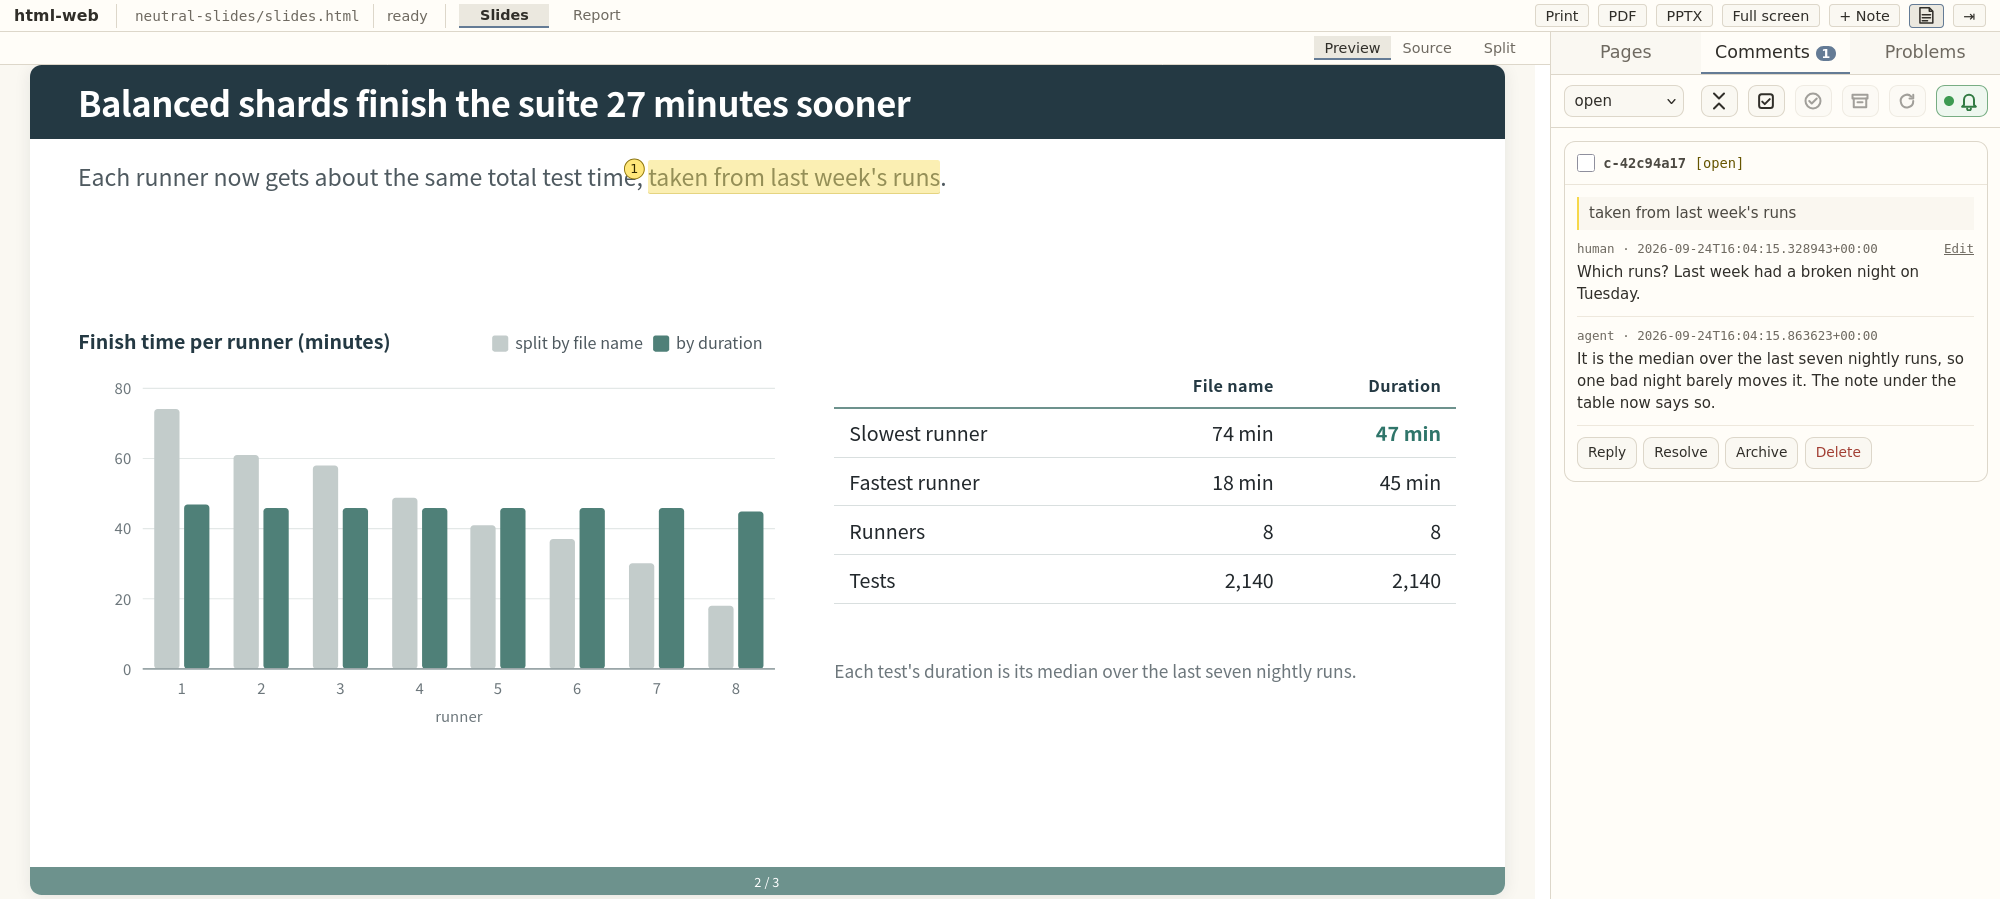
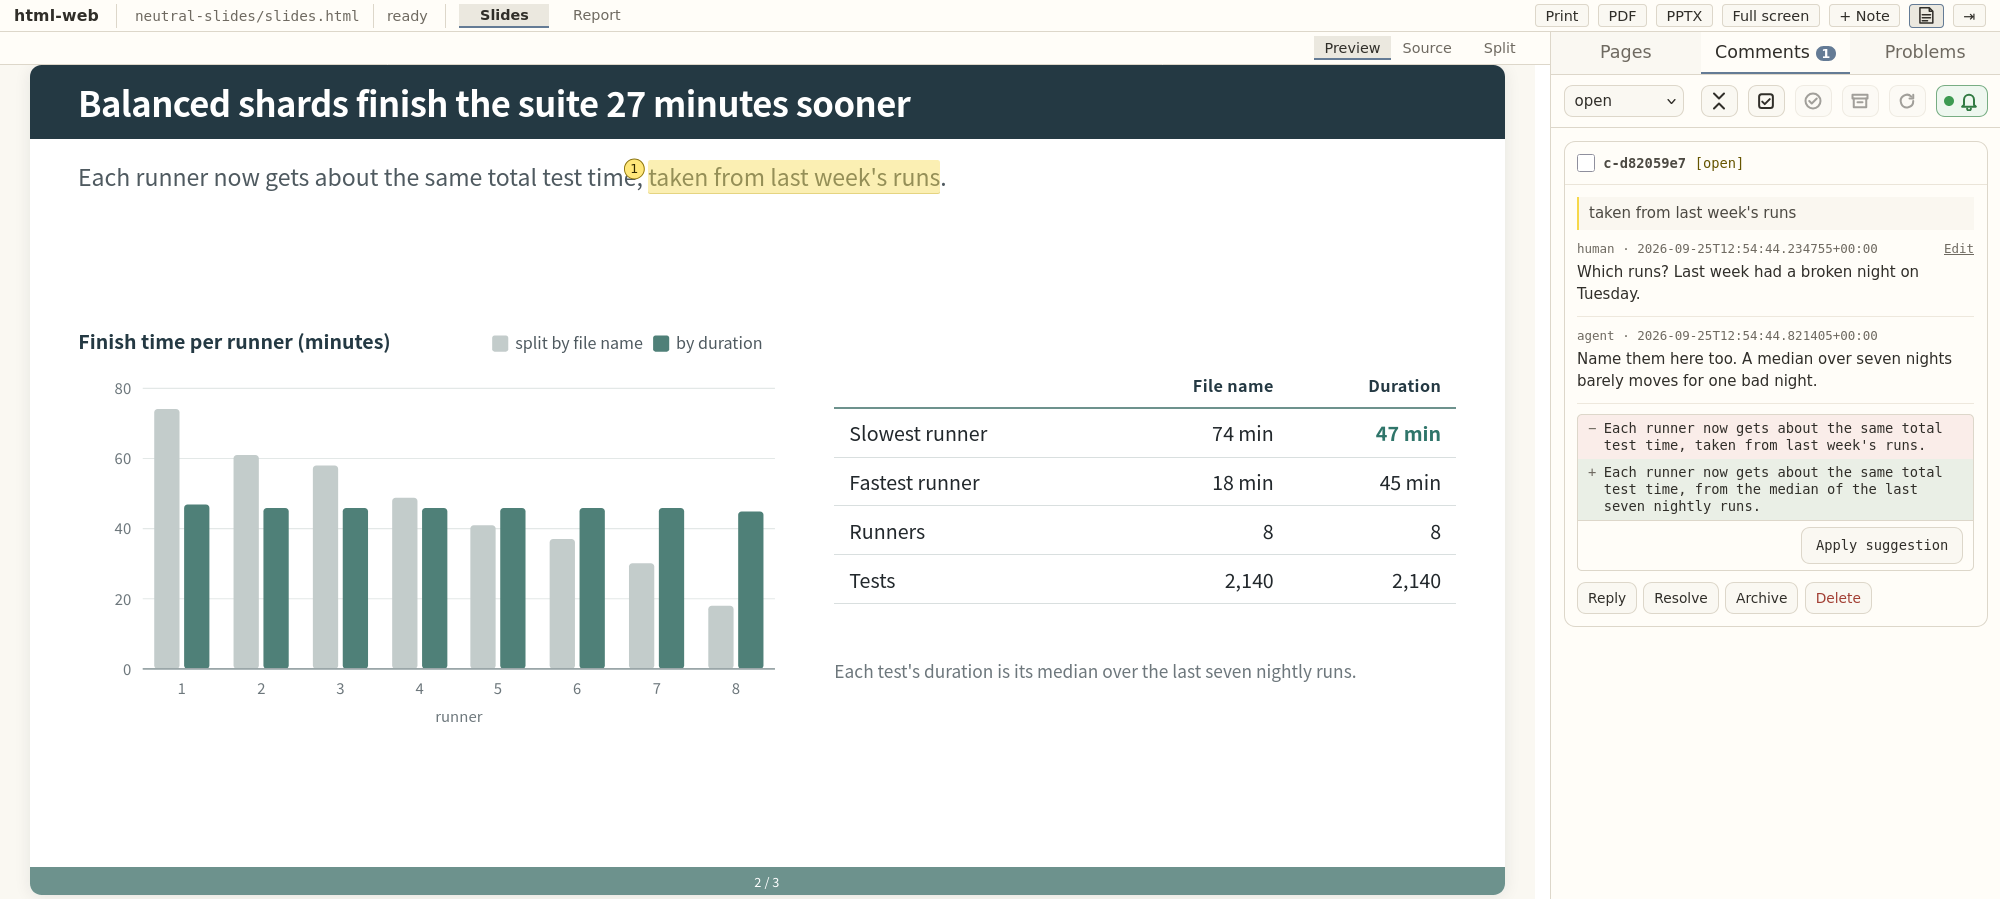
Lead with suggested edits in the README
The first image shows a phrase flagged on a slide answered with a proposed rewrite
and Apply suggestion, and a Suggested edits section says how a proposal is shown,
marked in the source, and applied.

Claude-Session: https://claude.ai/code/session_019YERaDsaFj3FPn9WvyCuNy

Changed region(s): [[0.775, 0.3737, 0.992, 0.5918], [0.775, 0.5918, 0.961, 0.6852], [0.806, 0.1557, 0.837, 0.1869]]

diff --git a/README.md b/README.md
@@ -6,7 +6,7 @@ Review an AI agent's HTML slides or report from the rendered page, on a desktop,
 
 **[Slides example](examples/neutral-slides/)**
 
-![A phrase highlighted on a rendered slide, and the reviewer's comment with the agent's reply beside it.](docs/hero.png)
+![A phrase highlighted on a rendered slide, the reviewer's question, and the agent's proposed rewrite of the sentence with Apply suggestion.](docs/hero.png)
 
 **[Report example](examples/neutral-report/)**
 
@@ -14,13 +14,14 @@ Review an AI agent's HTML slides or report from the rendered page, on a desktop,
 
 You comment on the rendered page itself: select the words you mean, the way you would mark
 a printout, and say what should change. The agent reads the comments, edits the HTML, and
-replies in the same thread. Saving a file refreshes only the artifact frame, so
+replies in the same thread, or proposes the exact change and leaves it to you to apply with
+one click. Saving a file refreshes only the artifact frame, so
 your scroll position and drafts stay put.
 
 ```
 you:    select text -> write a comment -> press Call agent
                   |
-agent:  read comments -> edit HTML -> reply
+agent:  read comments -> edit HTML, or propose a change -> reply
                   |
 you:    read the refreshed page -> comment again
 ```
@@ -57,6 +58,15 @@ do html listen
 
 Open `http://localhost:<port>` with the port you chose at init. Say it again after the
 agent restarts. Presses of **Call agent** made meanwhile wait for it.
+
+## Suggested edits
+
+When the wording is yours to decide, the agent proposes it instead of making it. The thread
+shows the source it would change as a −/+ pair, the Source view marks the same text in red,
+and **Apply suggestion** writes the change the way saving does, so a templated slide
+rebuilds at once. Proposing again replaces the proposal, and nothing reaches the source
+until you apply it. If the change rewrites the words you selected, your comment moves to
+what replaced them.
 
 ## Export to PowerPoint and PDF
 
